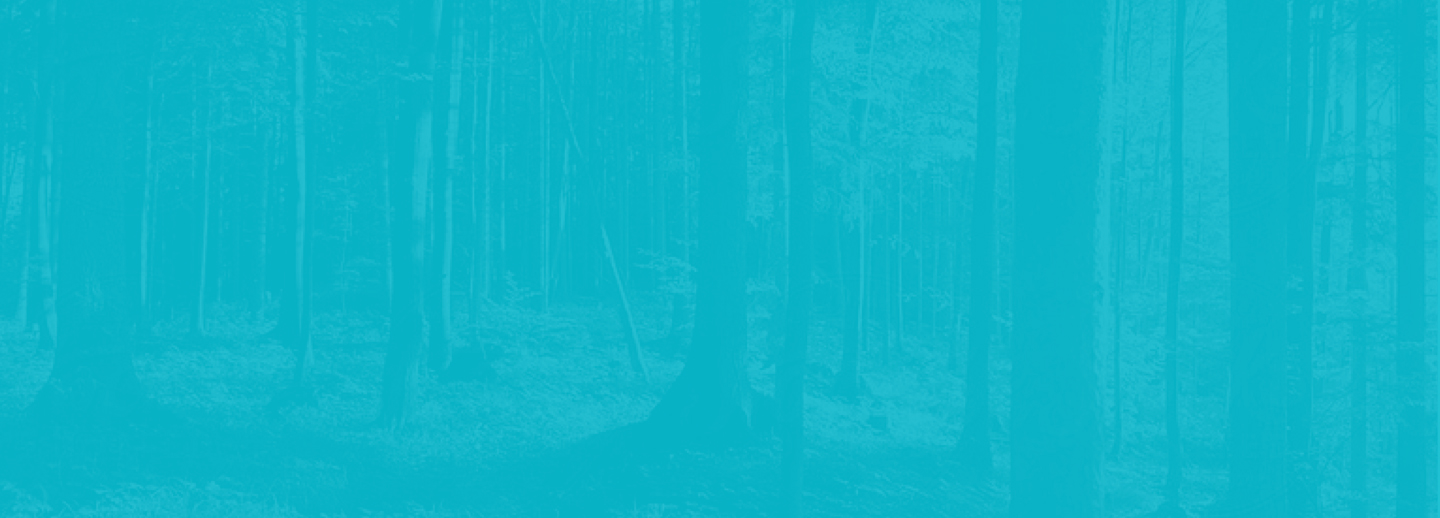
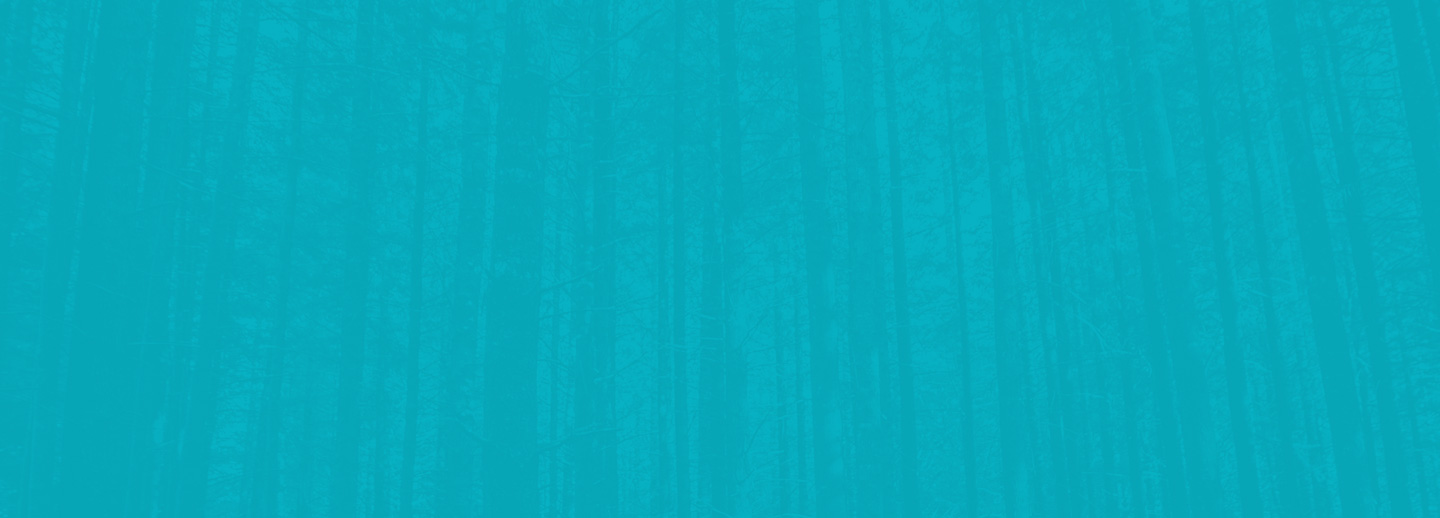
updated height of video, updated bluing on solutions page

diff --git a/css/main.css b/css/main.css
@@ -1176,13 +1176,13 @@ a {
 .video_container {
 	position: absolute;
 	width: 100%;
-	height: 795px;
+	height: 865px;
 	z-index: 1;
 	top: -110px;
 	text-align: center;
 }
 .video_banner_height {
-	height: 760px;
+	height: 820px;
 }
 .filter {
 	background-color: rgba(0, 0, 0, 0.5);
@@ -2750,7 +2750,7 @@ body {
 	font-size: 25px;
 	line-height: 33px;
 	margin-bottom: 83px;
-	padding-top: 194px;
+	padding-top: 264px;
 }
 .banner h1 {
 	font-size: 50px;
@@ -3105,7 +3105,7 @@ body {
 .video_container {
 	position: absolute;
 	width: 100%;
-	height: 795px;
+	height: 865px;
 	z-index: 1;
 	top: -110px;
 	text-align: center;
@@ -3167,6 +3167,9 @@ body {
 	width:26px;
 	height:26px;
 	background-size: 100%;
+}
+.video_banner_height {
+    height: 770px;
 }	
 }
 
